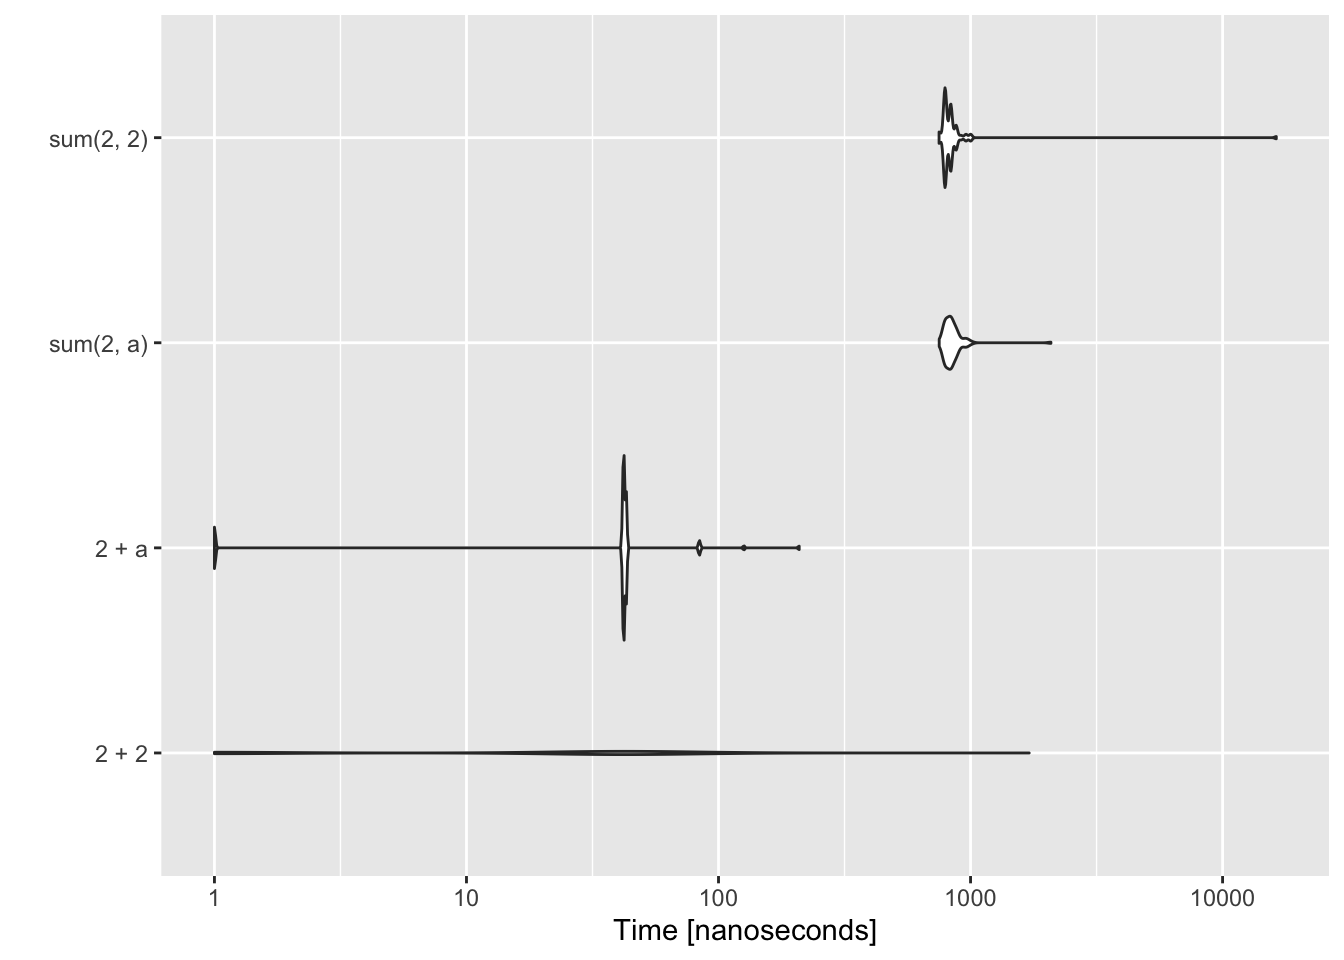
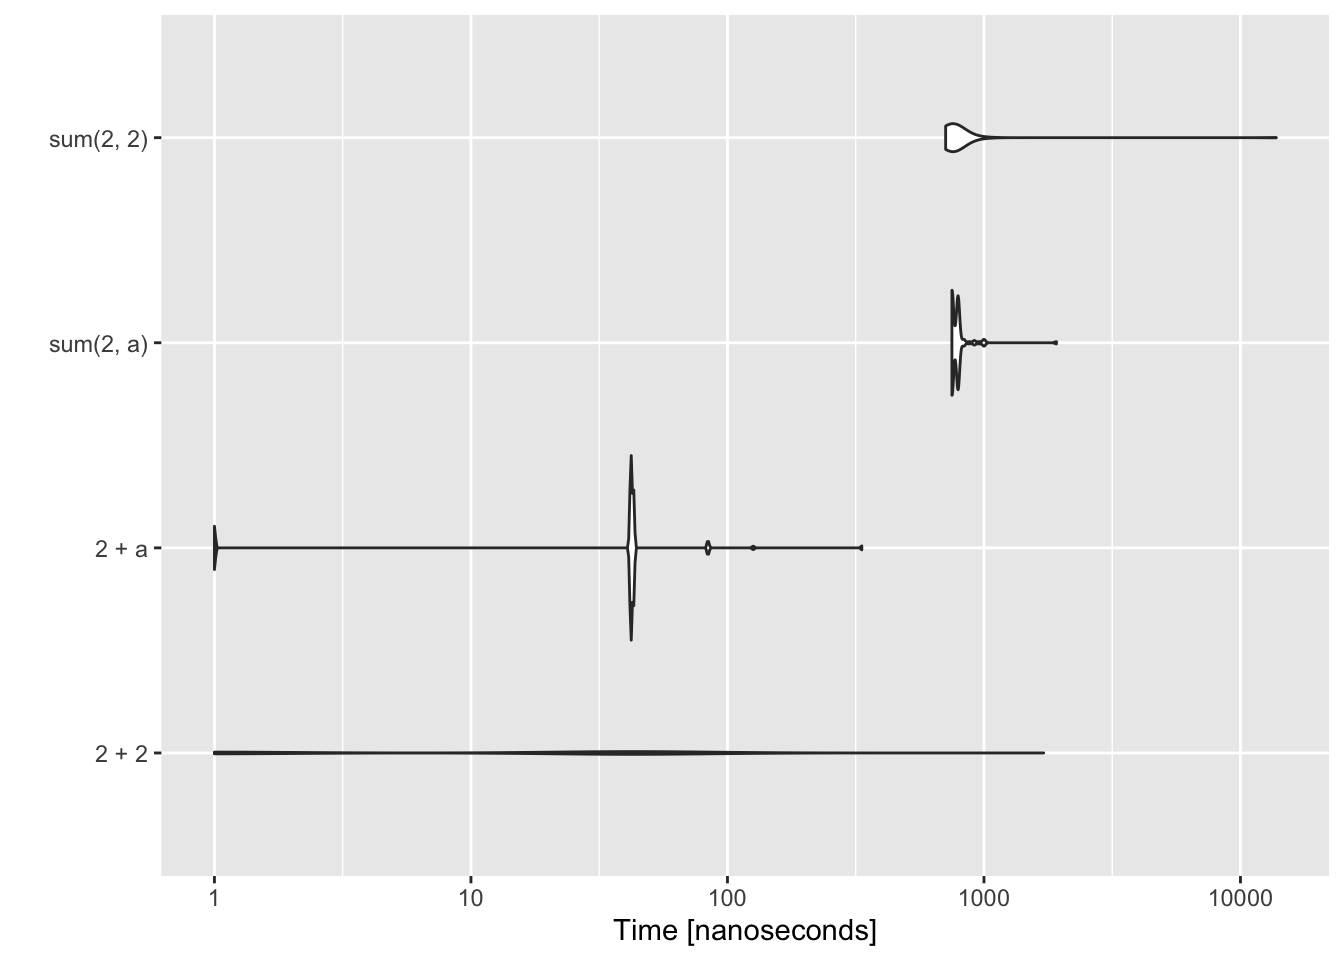
more examples

diff --git a/packages-part1.html b/packages-part1.html
@@ -441,15 +441,20 @@ Robust
 </tbody>
 </table>
 <p>In Part 1, I will discuss how to make an R package, with specific emphasis on data R packages, and show you how to document functions and data with Roxygen2.</p>
+<p>By the end of this workshop, you will be able to build your own mini R package using RStudio. I’ll show you how to host it on GitHub with a nice little landing page.</p>
+<p>If/when you want to go into R packaging in more depth, see Hadley Wickham’s book <a href="http://r-pkgs.had.co.nz/">R Packages</a>.</p>
+<div id="why-a-package" class="section level2">
+<h2>Why a package?</h2>
+<div id="shorter-answer" class="section level3">
+<h3>Shorter answer</h3>
 <ul>
 <li>The package framework really helps you write robust code and well documented code.</li>
 <li>It makes it easy to bundle data with code.</li>
 <li>It make it easy to version and document your data.</li>
 </ul>
-<p>By the end of this session, you will be able to build your own mini R package using RStudio. I’ll show you how to host it on GitHub with a nice little landing page.</p>
-<p>If/when you want to go into R packaging in more depth, see Hadley Wickham’s book <a href="http://r-pkgs.had.co.nz/">R Packages</a>.</p>
-<div id="why-a-package" class="section level2">
-<h2>Why a package?</h2>
+</div>
+<div id="longer-answer" class="section level3">
+<h3>Longer answer</h3>
 <p>An R package is an easy and the standard way to organize your R code, document your code, and share your code with other people. Why use an R package rather than just make a bunch of scripts with your data in a folder?</p>
 <ul>
 <li><strong>Reproducibility and documentation</strong> In the long-run, you will save yourself much work if you organize and document your code. Rather than writing a series of scripts that you copy and alter for each project, you think about how to make your scripts into functions.</li>
@@ -457,6 +462,7 @@ Robust
 <li><strong>Robust data sharing!</strong> Putting your data in a dedicated data package allows you to version your data (so everyone knows they are using the most up to date data), document your data, track data changes, provide data releases (with archives), provide easy visualizations of the data, and any other packages can load that data package and have access to the data.</li>
 <li><strong>You want to make an application</strong> If you want to make a shiny application, having your code in a package will help.</li>
 </ul>
+</div>
 </div>
 <div id="set-up-for-psaw-iii" class="section level2">
 <h2>Set-up for PSAW III</h2>
@@ -502,15 +508,15 @@ Click to see how to do this in RStudio your computer
 <p>2 files and a directory.</p>
 <ul>
 <li><p><strong>DESCRIPTION</strong> This file has the meta-data about your package. Name and what packages it depends on. Most of it is self-explanatory. The <code>Depends:</code> and <code>Imports:</code> lines specify any functions from other packages that you use in your functions.</p></li>
-<li><p><strong>NAMESPACE</strong> This file indicates what needs to be exposed to users for your R package. For our course, you won’t need to edit as <strong>Roxygen2</strong> takes care of it.</p></li>
+<li><p><strong>NAMESPACE</strong> This file indicates what needs to be exposed to users for your R package. For our course, you won’t need to edit as {roxygen2} takes care of it.</p></li>
 <li><p><strong>R directory</strong> This is where all your R code goes for your package.</p></li>
 </ul>
 </div>
 <div id="basic-add-ons" class="section level3">
 <h3>Basic add-ons</h3>
 <ul>
-<li><p><strong>man</strong> A directory for documentation. You won’t need to write this. It will be added automatically by <strong>Roxygen2</strong>.</p></li>
-<li><p><strong>data</strong> A directory for data files saved in RData format (with the ending <code>.RData</code>). Nothing else!</p></li>
+<li><p><strong>man</strong> A directory for documentation. You won’t need to write this. It will be added automatically by {roxygen2}.</p></li>
+<li><p><strong>data</strong> A directory for data files saved in RData format with the ending <code>.rda</code> or <code>.RData</code>. Nothing else!</p></li>
 </ul>
 </div>
 <div id="other-add-ons" class="section level3">
@@ -631,6 +637,30 @@ return(&lt;what you want to return to user&gt;)
 .github
 .git</code></pre>
 </div>
+</div>
+<div id="lets-add-another-function-to-testpackage" class="section level2">
+<h2>Let’s add another function to TestPackage</h2>
+<ol style="list-style-type: decimal">
+<li><p>Create a new R script file. File &gt; New File &gt; R Script.</p></li>
+<li><p>Paste this code into the script and save as <code>hello.R</code> in the R directory.</p></li>
+</ol>
+<pre><code>#&#39; dplyr example
+#&#39; 
+#&#39; This adds a new function that needs {dplyr}
+#&#39; @param col which column to average
+#&#39; @export
+irisaverages &lt;- function(col = c(&quot;Sepal.Length&quot;, &quot;Sepal.Width&quot;, &quot;Petal.Length&quot;, &quot;Petal.Width&quot;)){
+col &lt;- match.arg(col)
+iris$col &lt;- iris[[col]]
+iris %&gt;% dplyr::group_by(Species) %&gt;% 
+   dplyr::summarize(mean = mean(col))
+}</code></pre>
+<p>We now use {dplyr} and <code>%&gt;%</code> (pipe).</p>
+<p>We can either add {dplyr} to <code>Depends</code> in our DESCRIPTION file but that would load the whole {dplyr} library and maybe we don’t want to do that.</p>
+<p>We can add {dplyr} to <code>Imports</code> but how to get <code>%&gt;%</code>? Add a file <code>import_packages.R</code> to the R folder (the name of the file is unimportant).</p>
+<pre><code>#&#39; @importFrom magrittr %&gt;%
+NULL</code></pre>
+<p><em>How would I ever remember this??</em> Sadly if your use piping, you’ll gets lots of practice with this.</p>
 </div>
 <div id="data-package-in-r" class="section level2">
 <h2>Data package in R</h2>

diff --git a/week8-adv-packages.html b/week8-adv-packages.html
@@ -638,10 +638,11 @@ Rprof(tmp&lt;-tempfile())
 for(i in 1:10000){ b &lt;- t(a)%*%a }
 Rprof()
 summaryRprof(tmp)$by.self</code></pre>
-<pre><code>##             self.time self.pct total.time total.pct
-## &quot;%*%&quot;            0.56    93.33       0.56     93.33
-## &quot;eval&quot;           0.02     3.33       0.60    100.00
-## &quot;t.default&quot;      0.02     3.33       0.02      3.33</code></pre>
+<pre><code>##                   self.time self.pct total.time total.pct
+## &quot;%*%&quot;                  0.44    81.48       0.44     81.48
+## &quot;t.default&quot;            0.06    11.11       0.06     11.11
+## &quot;t&quot;                    0.02     3.70       0.08     14.81
+## &quot;lazyLoadDBfetch&quot;      0.02     3.70       0.02      3.70</code></pre>
 <pre class="r"><code>Rprof(NULL) #stop profiling</code></pre>
 </div>
 <div id="profvis-package" class="section level3">
@@ -657,7 +658,7 @@ res &lt;- microbenchmark(2 + 2, 2 + a, sum(2, a), sum(2, 2))
 ggplot2::autoplot(res)</code></pre>
 <pre><code>## Coordinate system already present. Adding new coordinate system, which will replace the existing one.</code></pre>
 <pre><code>## Warning: Transformation introduced infinite values in continuous y-axis</code></pre>
-<pre><code>## Warning: Removed 18 rows containing non-finite values (stat_ydensity).</code></pre>
+<pre><code>## Warning: Removed 26 rows containing non-finite values (stat_ydensity).</code></pre>
 <p><img src="week8-adv-packages_files/figure-html/unnamed-chunk-5-1.png" width="672" /></p>
 <p>This shows an example of code using <a href="https://www.datacamp.com/community/tutorials/pipe-r-tutorial">piping</a> (<code>%&gt;%</code>) versus without. This is why I do not use piping in my simulations. It is slow though it has gotten much faster in <strong>magrittr</strong> 2.0.</p>
 <pre class="r"><code>library(magrittr)
